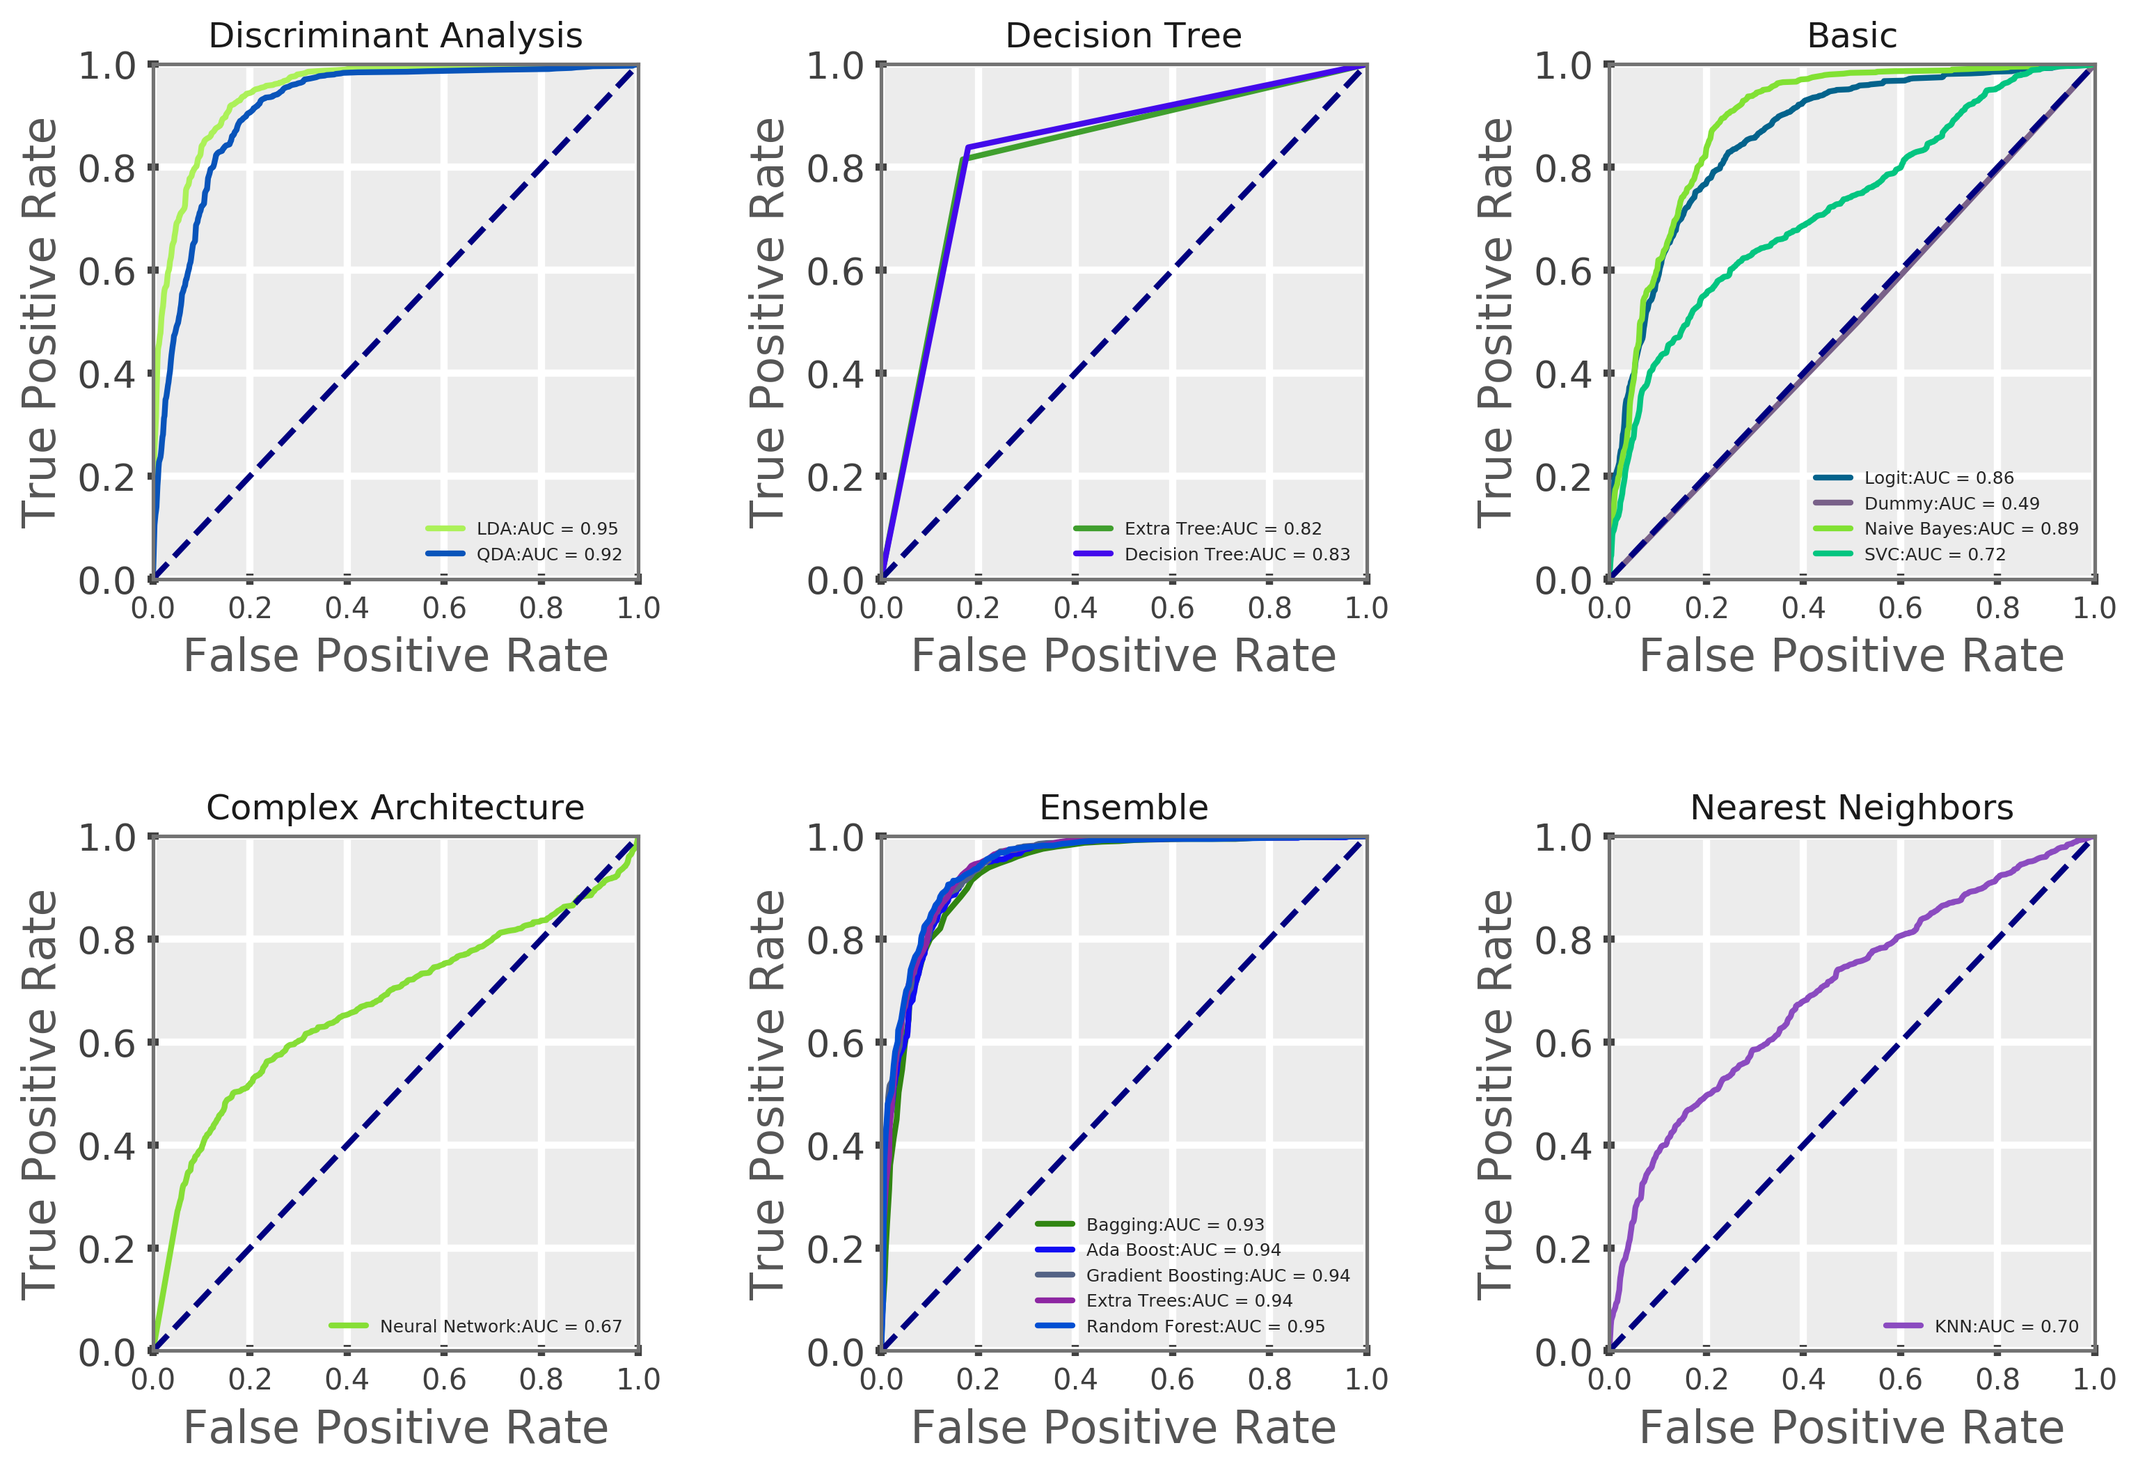
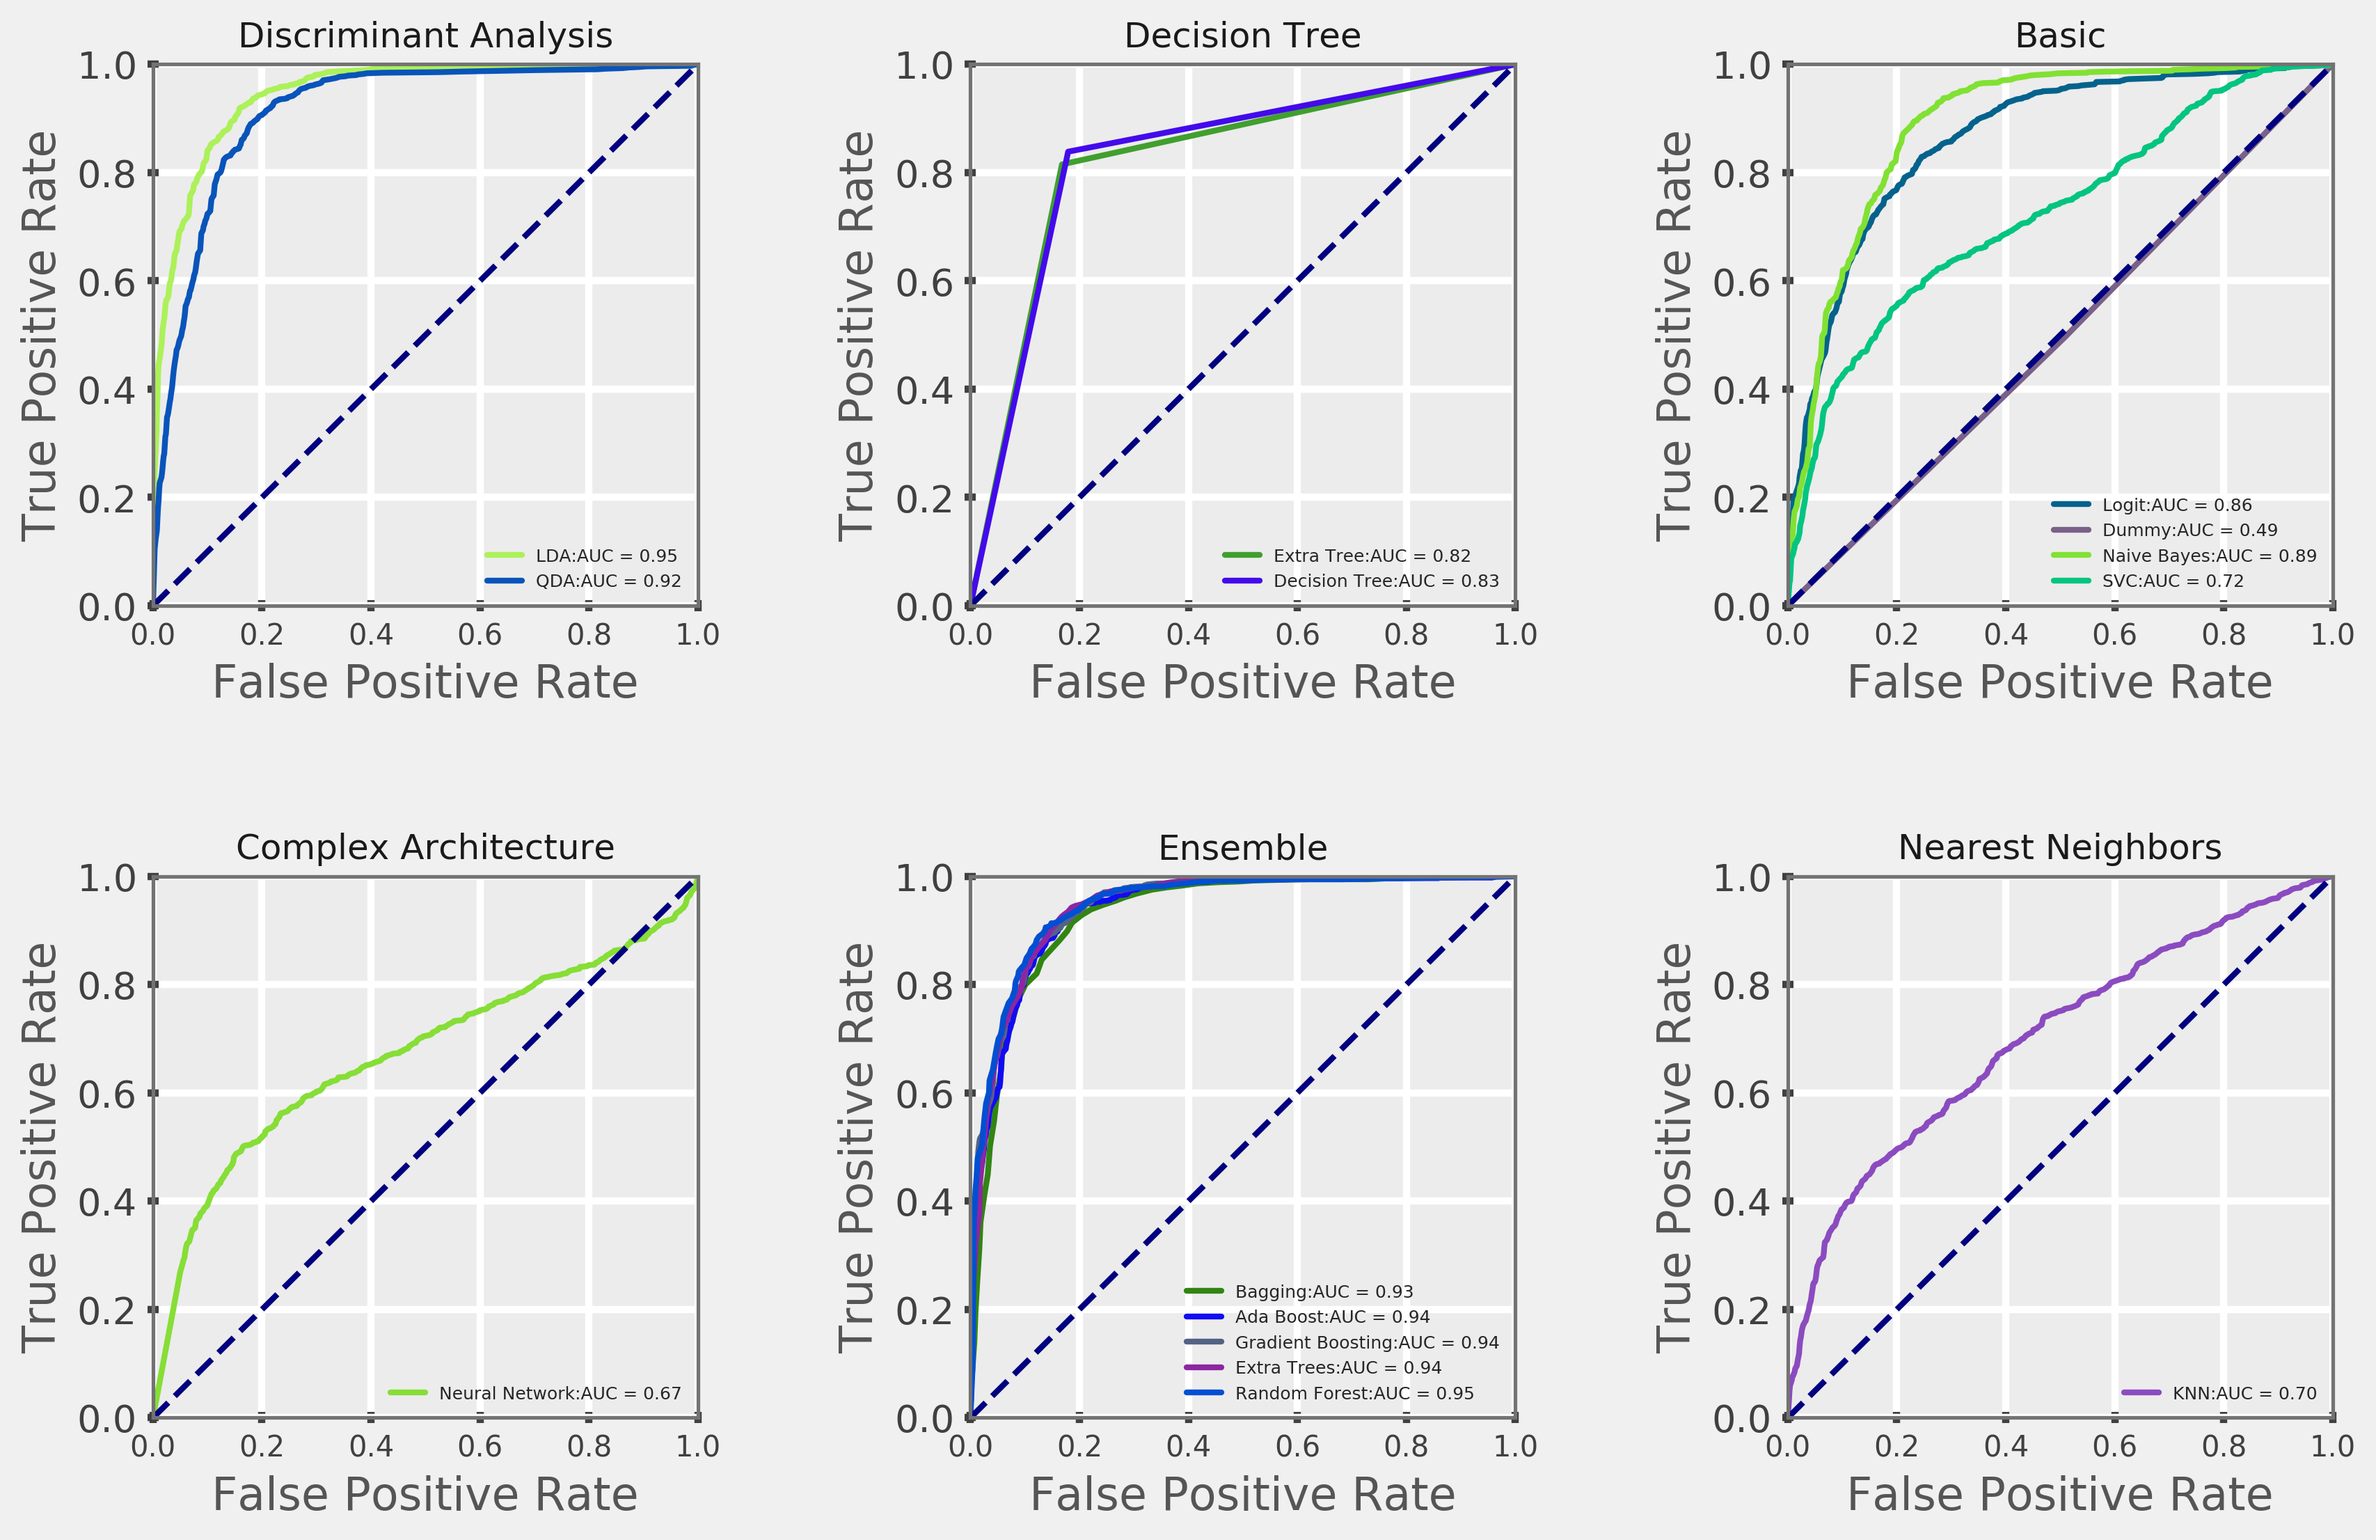
publist

diff --git a/publication/util.py b/publication/util.py
@@ -52,6 +52,8 @@ from verify import Contingency2x2
 from keras.models import Sequential
 from keras.layers import Dense,LSTM,Embedding,Dropout
 
+plt.style.use("fivethirtyeight")
+
 def nan_helper(y):
     nans = np.isnan(y)
     x = lambda z: z.nonzero()[0]
